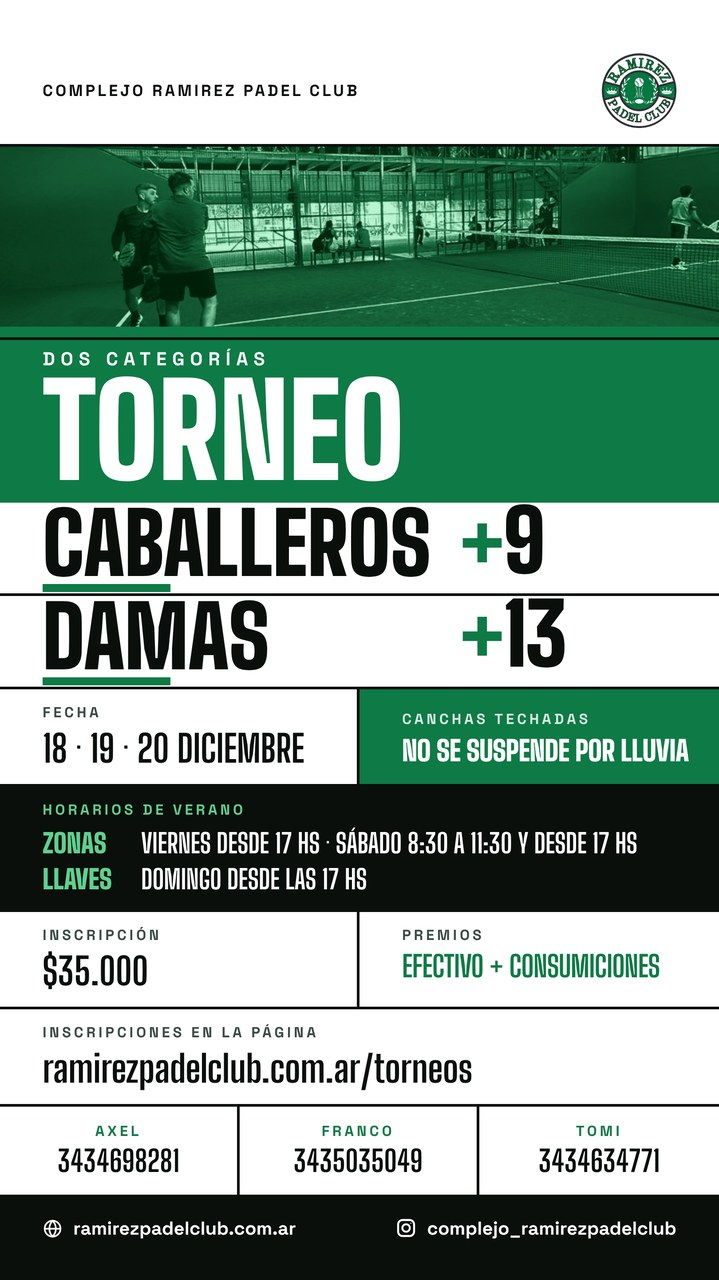
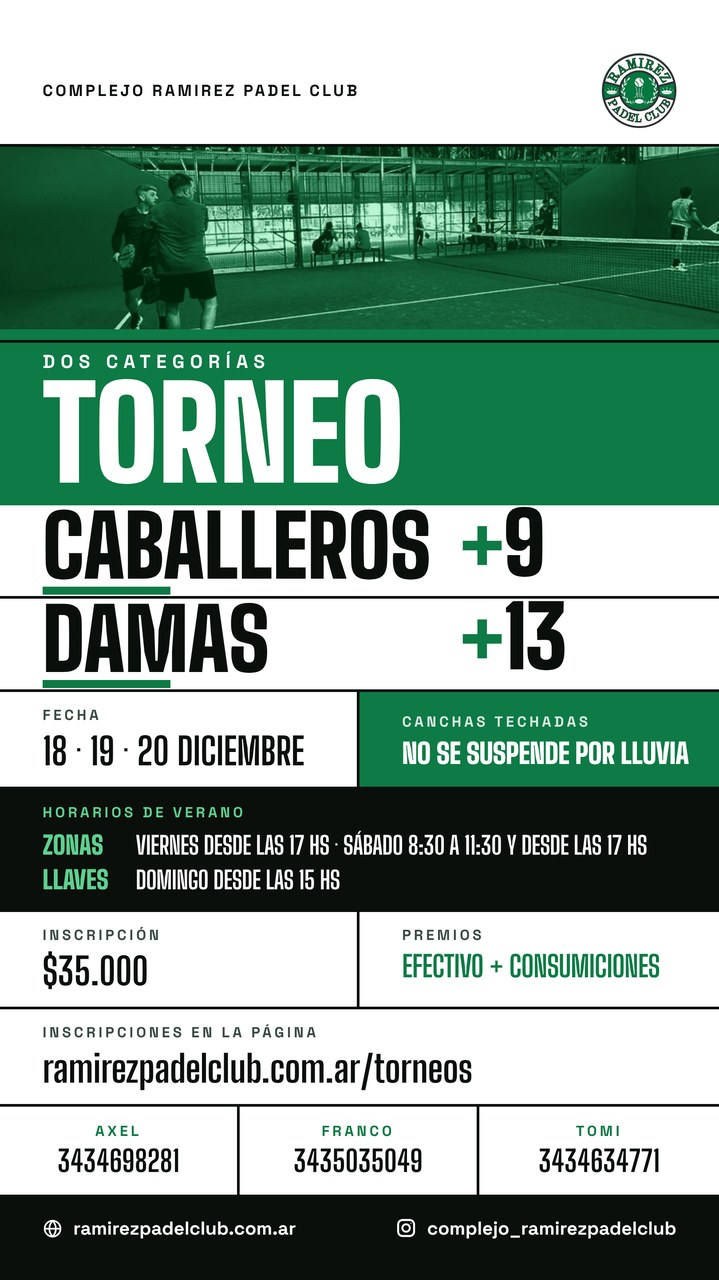
Torneos de verano: llaves domingo desde las 15 hs
Claude-Session: https://claude.ai/code/session_01Xfj5ag84JSL3KbPWQhEGRD

diff --git a/index.html b/index.html
@@ -642,7 +642,7 @@ body.mc-abierto{overflow:hidden}
             <p class="t-fecha">11 · 12 · 13 DE DICIEMBRE</p>
             <h3>Torneo del complejo · Dos categorías</h3>
             <p class="t-lugar">Complejo Ramirez Pádel Club</p>
-            <ul class="t-datos"><li><b>Categorías:</b> Caballeros +12 · Mixto 8va</li><li><b>Premios:</b> efectivo + consumiciones</li><li><b>Horarios de verano:</b> zonas viernes desde 17 hs, sábado 8:30 a 11:30 y desde 17 hs · llaves domingo desde 17 hs</li></ul>
+            <ul class="t-datos"><li><b>Categorías:</b> Caballeros +12 · Mixto 8va</li><li><b>Premios:</b> efectivo + consumiciones</li><li><b>Horarios de verano:</b> zonas viernes desde las 17 hs, sábado 8:30 a 11:30 y desde las 17 hs · llaves domingo desde las 15 hs</li></ul>
             <div class="t-pie"><span class="t-precio">$35.000 por jugador</span><button type="button" class="btn verde" data-insc>Inscribirme</button><button type="button" class="btn copiar" data-gest>Baja o cambiar horarios</button></div>
           </div>
         </article>
@@ -652,7 +652,7 @@ body.mc-abierto{overflow:hidden}
             <p class="t-fecha">18 · 19 · 20 DE DICIEMBRE</p>
             <h3>Torneo del complejo · Dos categorías</h3>
             <p class="t-lugar">Complejo Ramirez Pádel Club</p>
-            <ul class="t-datos"><li><b>Categorías:</b> Caballeros +9 · Damas +13</li><li><b>Premios:</b> efectivo + consumiciones</li><li><b>Horarios de verano:</b> zonas viernes desde 17 hs, sábado 8:30 a 11:30 y desde 17 hs · llaves domingo desde 17 hs</li></ul>
+            <ul class="t-datos"><li><b>Categorías:</b> Caballeros +9 · Damas +13</li><li><b>Premios:</b> efectivo + consumiciones</li><li><b>Horarios de verano:</b> zonas viernes desde las 17 hs, sábado 8:30 a 11:30 y desde las 17 hs · llaves domingo desde las 15 hs</li></ul>
             <div class="t-pie"><span class="t-precio">$35.000 por jugador</span><button type="button" class="btn verde" data-insc>Inscribirme</button><button type="button" class="btn copiar" data-gest>Baja o cambiar horarios</button></div>
           </div>
         </article>
